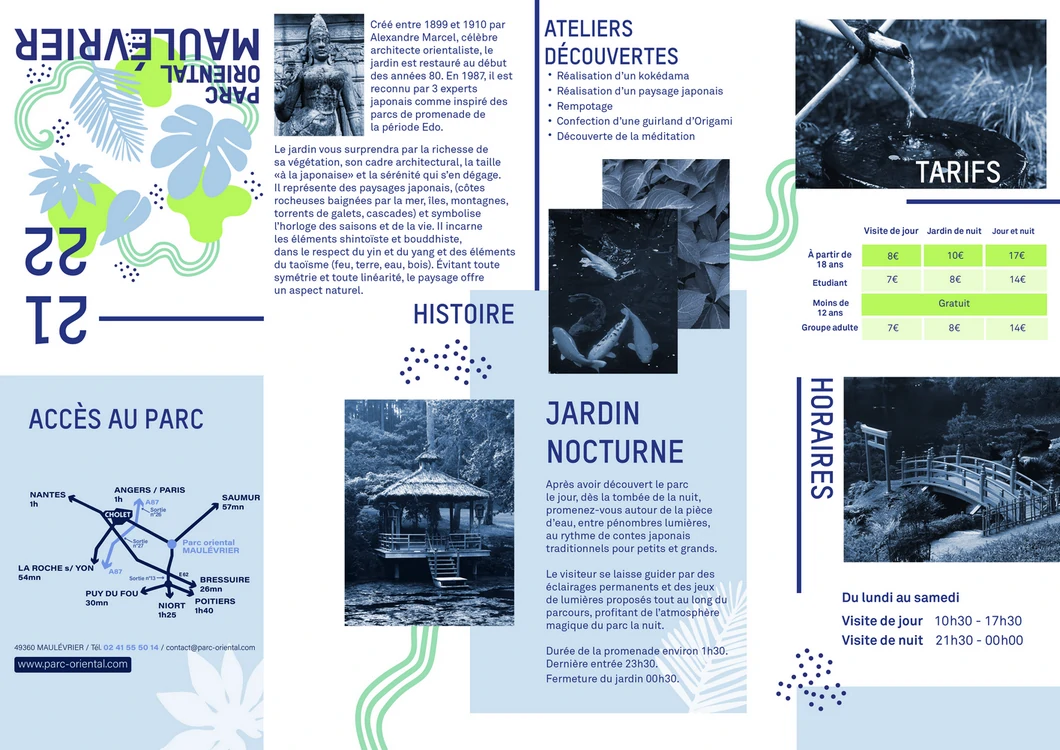
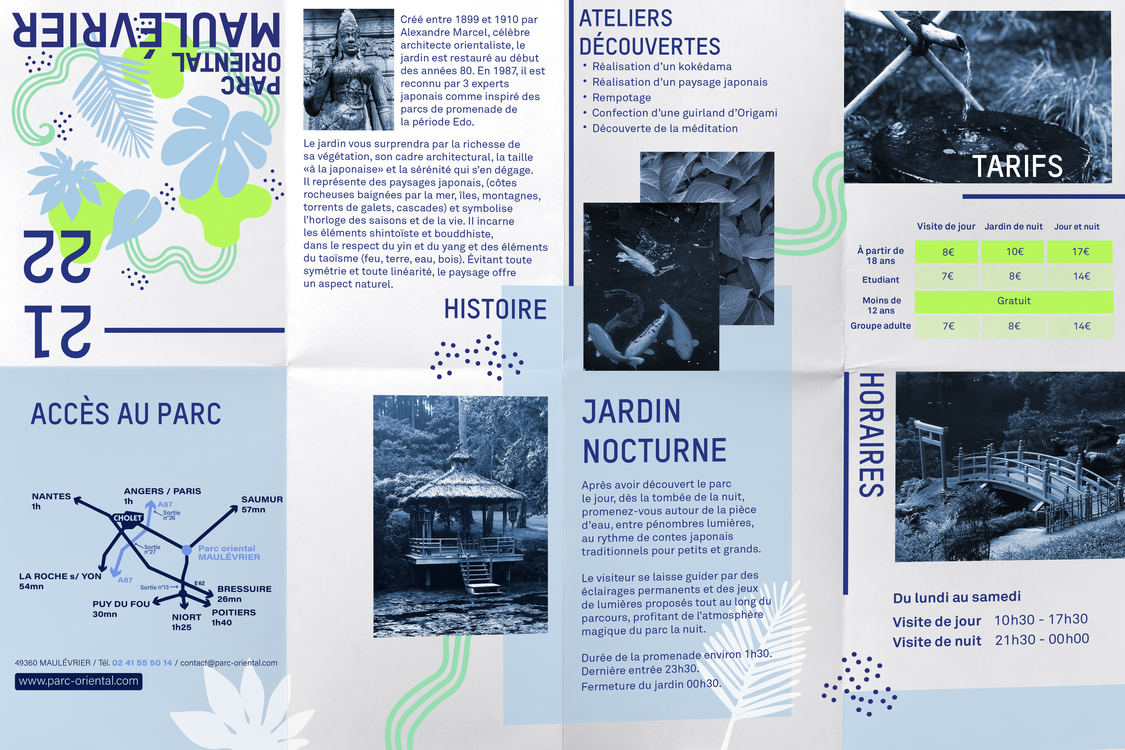
*
Changed cover for maulevrier
Reworked some descriptions

diff --git a/script.js b/script.js
@@ -37,7 +37,7 @@ const data = [
       './img/Projet 1/olio 2.webp',
     ],
     description:
-      "Olio e Burro est un restaurant né de la rencontre d'un français et d'une italienne amoureux de leur culture. Ils proposent une cuisine locale et sans gluten qui valorise la simplicité et le savoir faire. Le couple propose des plats fait maison à partir de produits bruts.  Cette identité est une vitrine de leur singularité : elle traduit un artisanat qui se veut simple mais chaleureux. La conception de cette identité est le fruit de recherches graphiques et plastiques prolifiques autour de la cuisine.",
+      "Olio e Burro est un restaurant né de la rencontre d'un français et d'une italienne amoureux de leur culture. Ils proposent une cuisine locale et sans gluten qui valorise la simplicité et le savoir faire. Le couple propose des plats fait maison à partir de produits bruts. C'est un endroit idéal pour les amateurs de cuisine italienne à la recherche d'ingrédients authentiques. ",
   },
   {
     name: 'Pannonica',
@@ -53,11 +53,11 @@ const data = [
       './img/Projet 2/Pannonica 3.webp',
     ],
     description:
-      "Refonte de l'identité de la scène de jazz et de musiques improvisées à Nantes. L'identité doit être sobre et élégante tout en étant aisément idéntifiable. Le logotype en monochromie est constitué d'une typographie incisive qui réprésente les variations sonores. Maquette web et déclinaisons sur différents supports numériques et pour une revue saisonnière.",
+      "Pannonica est une scène de jazz et de musiques improvisées située à Nantes, en France. Elle propose une programmation régulière de concerts, d'expositions et de rencontres avec des artistes locaux et internationaux. C'est un lieu incontournable pour les amateurs de jazz et de musique expérimentale à Nantes.",
   },
   {
     name: 'Parc Oriental Maulévrier',
-    cover: './img/Projet 3/Maulévrier 8.webp',
+    cover: './img/Projet 3/Maulévrier 1.webp',
     keywords: ['Branding', 'Illustration'],
     challenge:
       "Concevoir un flyer qui soit compact et ludique, tout en offrant une grande quantité d'informations de manière intuitive en respectant le style local.",
@@ -93,7 +93,7 @@ const data = [
       './img/Projet 4/Racecars 4.webp',
     ],
     description:
-      "Entre vitesse et luxe, Race cars est une entreprise qui propose des véhicules haut de gamme à la location. Il s'agit d'imaginer une identité visuelle qui saura marquer les esprits et améliorer leur visibilité. Le logotype se veut sobre et élégant. A la frontière entre le blason automobile et le tampon minimaliste, l'identité souligne les produits haut de gamme que propose l'entreprise. La typographie est découpée de manière à évoquer la vitesse et le dynamisme de leurs modèles.",
+      "RaceCars Location est une entreprise de location de voitures de sport et de prestige située à Nantes, en France. Elle propose une flotte de véhicules haut de gamme, tels que des Ferrari, Lamborghini et Porsche, pour des événements spéciaux ou des sorties de loisirs. C'est un choix idéal pour les amateurs de voitures de luxe cherchant une expérience de conduite unique.",
   },
   {
     name: 'Olio e Burro',

diff --git a/styles.css b/styles.css
@@ -183,14 +183,12 @@ main {
     height: 100%;
     max-height: 750px;
     max-width: 50vw;
-    /* max-width: 775px; */
     object-fit: contain;
-    /* object-fit: cover; */
   }
 
   .section .cover {
     box-shadow: 2px 2px 25px -10px #131313;
-    /* background-color: var(--secondary); */
     border-radius: 5px;
+    object-fit: cover;
   }
 }
